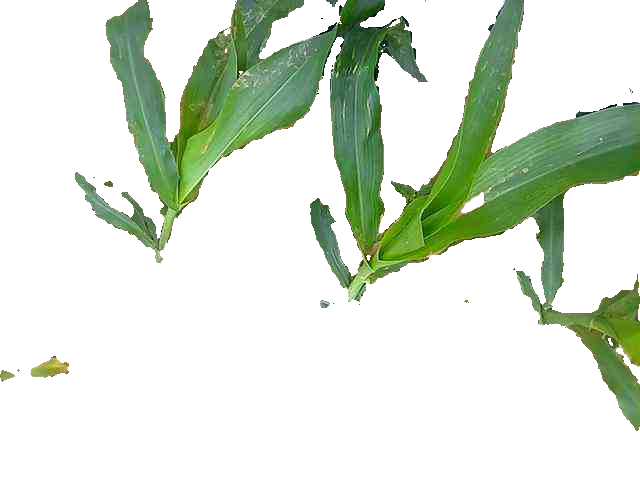
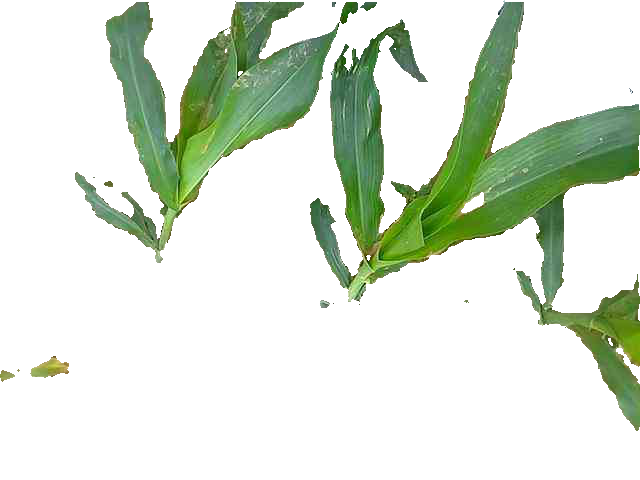
Update Unsupervised Segmentation example

diff --git a/unsupervised.py b/unsupervised.py
@@ -163,14 +163,24 @@ if not args.visualize:
     im_target_rgb = im_target_rgb.reshape(im.shape).astype(np.uint8)
 # cv2.imwrite("output.png", im_target_rgb)
 
-unique_labels = np.unique(im_target)
+GREEN_LOWER = np.array([0, 150, 0])
+GREEN_UPPER = np.array([150, 255, 150])
+
+unique_labels, pixel_counts = np.unique(im_target, return_counts=True)
 label_positions = im_target.reshape(im.shape[:2])
+non_green_labels = list()
 for i, label in enumerate(unique_labels):
-    non_label_area = np.copy(im)
-    non_label_area[label_positions != label] = 255
-    cv2.imwrite("label" + str(i) + ".png", non_label_area)
+    label_area = np.copy(im)
+    label_area[label_positions != label] = 255
+    cv2.imwrite("label" + str(i) + ".png", label_area)
+    green_area = cv2.inRange(label_area, GREEN_LOWER, GREEN_UPPER)
+    num_green_pixel = np.count_nonzero(green_area)
+    green_pixel_ratio = num_green_pixel / pixel_counts[i]
+    print(i, num_green_pixel, pixel_counts[i], green_pixel_ratio)
+    if green_pixel_ratio < 0.1:
+        non_green_labels.append(label)
 
 plant_area = np.copy(im)
-for i in (1, 2, 3, 4, 5):
-    plant_area[label_positions == unique_labels[i]] = 255
+for l in non_green_labels:
+    plant_area[label_positions == l] = 255
 cv2.imwrite("label_plant.png", plant_area)
